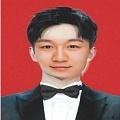
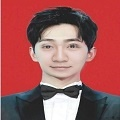
constrained mask & face-based color transfer

Changed region(s): [[0.275, 0.3, 0.775, 0.675]]

diff --git a/faceBlending.py b/faceBlending.py
@@ -18,6 +18,9 @@ from tqdm import tqdm
 from color_transfer import color_transfer
 from utils import files, FACIAL_LANDMARKS_IDXS, shape_to_np
 
+# 调试
+import pdb
+
 def main():
     args = get_parser()
 
@@ -30,7 +33,6 @@ def main():
     # face detector
     detector = dlib.get_frontal_face_detector()
     predictor = dlib.shape_predictor(args.shapePredictor)
-
     
     for i, srcFace in enumerate(srcFaces):
         # load bgr
@@ -55,22 +57,32 @@ def main():
         # if found
         # 产生凸包
         targetBgr = cv2.cvtColor(targetRgb, cv2.COLOR_RGB2BGR)
-        hullMask = convex_hull(srcFaceBgr.shape, srcLms) # size (h, w, c) mask of face convex hull
+        hullMask = convex_hull(srcFaceBgr.shape, srcLms) # size (h, w, c) mask of face convex hull, uint8 [0, 255]  # TODO: 去掉channel减少参数
 
         # 产生随机变形
-        anchors, deformedAnchors = random_deform(hullMask.shape[:2], 4, 4)
+        anchors, deformedAnchors = random_deform(hullMask.shape[:2], 4, 4)  # 随机变形存在问题：需要取变形结果与原图的交集。
 
         # 分段仿射变换
-        warped = piecewise_affine_transform(hullMask, anchors, deformedAnchors) # size (h, w) warped mask
+        warped = piecewise_affine_transform(hullMask, anchors, deformedAnchors) # size (h, w, c) warped mask float64 [0, 1.0]
+        # 将 warped 区域限制在人脸范围内，避免背景的影响
+        warped *= (hullMask / hullMask.max())
 
         # 高斯模糊
         blured = cv2.GaussianBlur(warped, (5,5), 3)
 
         # 颜色矫正，迁移高斯模糊后blured mask区域的颜色，并对颜色纠正的blured区域人脸+原背景作为融合图片
-        targetBgrT = color_transfer((srcFaceBgr*blured).astype(np.uint8), (targetBgr*blured).astype(np.uint8)) + (targetBgr*(1-blured)).astype(np.uint8)
+        left, up, right, bot = get_roi(warped)  # 获取 warped 区域
+        src = (srcFaceBgr[up:bot,left:right,:]).astype(np.uint8)
+        tgt = (targetBgr[up:bot,left:right,:]).astype(np.uint8)
+        targetBgrT = color_transfer(src, tgt)
+        cv2.imwrite(f'results/transfer/src.jpg', src)
+        cv2.imwrite(f'results/transfer/tgt.jpg', tgt)
+        cv2.imwrite(f'results/transfer/tgtrans.jpg', targetBgrT)
+        targetBgr_T = targetBgr * 1  # 开辟新内存空间
+        targetBgr_T[up:bot,left:right,:] = targetBgrT  # 将色彩迁移的部分转移到原图片
 
         # 融合
-        resultantFace = forge(srcFaceBgr, targetBgrT, blured)  # forged face
+        resultantFace = forge(srcFaceBgr, targetBgr_T, blured)  # forged face
 
         # 混合边界
         resultantBounding = get_bounding(blured)
@@ -107,6 +119,27 @@ def find_one_neighbor(detector, predictor, srcPath, srcLms, faceDatabase, thresh
         if dist < threshold and basename(face).split('_')[0] != basename(srcPath).split('_')[0]:
             return rgb
     return None
+
+
+def get_roi(warped):
+    '''返回 warped 区域的 roi 边框
+    warped: (h, w, c), float64, [0, 1]
+    return: left, up, right, bot.
+    '''
+    left, up, right, bot = 0, 0, 0, 0
+    gray = warped[:, :, 0]
+    rowHistogram, colHistogram = gray.sum(axis=0), gray.sum(axis=1)
+    for i, num in enumerate(rowHistogram):
+        if left == 0 and num !=0:
+            left = i
+        if i > 0 and rowHistogram[i-1]>0 and num==0 and right == 0:
+            right = i
+    for i, num in enumerate(colHistogram):
+        if up == 0 and num !=0:
+            up = i
+        if i > 0 and colHistogram[i-1]>0 and num==0 and bot == 0:
+            bot = i
+    return left, up, right, bot
 
 
 def forge(srcRgb, targetRgb, mask):
